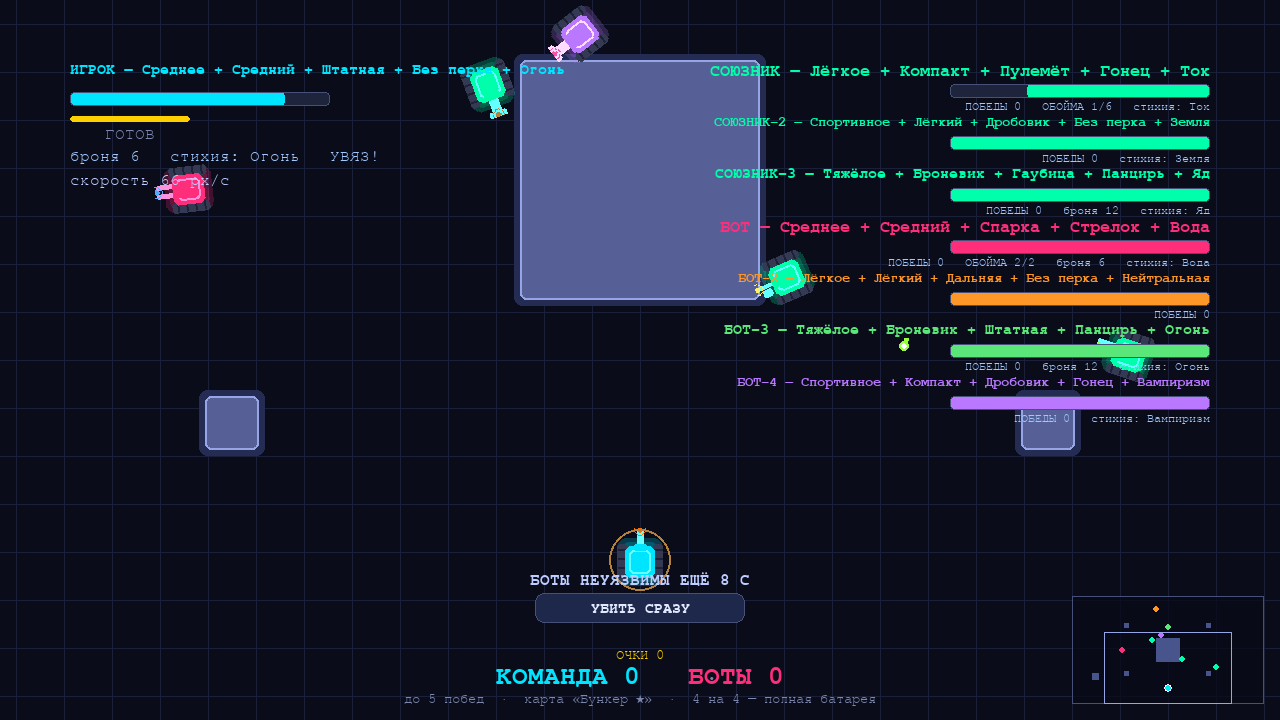
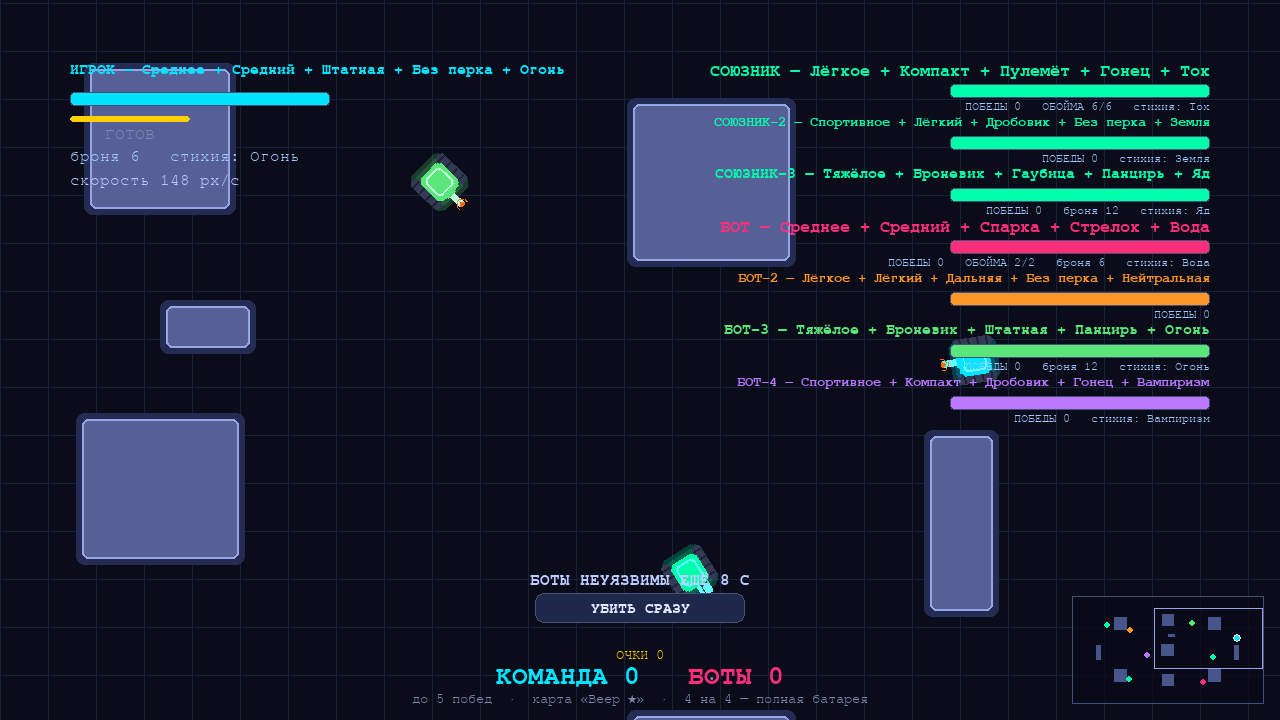
v2.4: КАРТА КАК СТАРАЯ, НО В 3 РАЗА БОЛЬШЕ — мир 2240x1260 (масштаб 1.75 от исходной 1280x720, площадь x3, пропорции 16:9; не километр: поперёк поля — те же полминуты); все 16 раскладок, стены (105 px), спавны и миникарта тянутся от масштаба сами; шеренги команд = треть высоты мира (420) — не цепляю

diff --git a/scripts/smoke_test.py b/scripts/smoke_test.py
@@ -179,7 +179,8 @@ def test_elements():
           abs(el.turn_speed - bturn * SHOCK_MULT) < 0.01)
 
     # воздух: отшвыривает на ~90 px и не сквозь стены
-    a = Tank(200, 620, 0, "medium", "medium", COL, "standard", "none")
+    # (y=450 — чистая полоса «Классики» при масштабе 1.75: блоки выше/ниже)
+    a = Tank(200, 450, 0, "medium", "medium", COL, "standard", "none")
     a.apply_element("air", 100, 0, arena, fx, snd)   # толкает вправо
     pushed = a.x - 200
     check("воздух отшвыривает (~90 px)", 60 < pushed <= 92, "(%.0f px)" % pushed)
@@ -221,7 +222,7 @@ def test_barrier():
     g._reset_round()
     g.arena = Arena(0)             # фиксированная «Классика» — тест геометрии
     p = g.player
-    p.x, p.y, p.angle = 400, 540, 0        # смотрит вправо (мир теперь 1920x1080)
+    p.x, p.y, p.angle = 400, 540, 0        # смотрит вправо (мир 2240x1260 с v2.4)
     p.barrier_charges = 1
     ok = g._place_barrier(p)
     check("стена ставится по Q", ok and len(g.barriers) == 1 and
@@ -307,7 +308,7 @@ def test_laser_fan():
     g.grace_t = 0.0                 # без грейса — иначе бот неуязвим для луча
     g.bot_tank.immune = False
     p, bot = g.player, g.bot_tank
-    # чистая полоса карты «Классика» (мир 1920x1080: блоки выше/ниже)
+    # чистая полоса карты «Классика» (мир 2240x1260: блоки выше/ниже)
     g.arena = Arena(0)
     p.x, p.y, p.angle = 350, 380, 0
     bot.x, bot.y = 750, 380
@@ -1207,11 +1208,13 @@ def test_map_shuffle():
           any("★" in n for n in names),
           "(вариантов имени %d)" % len(names))
     # классические точки появления не перекрыты баррикадами
-    # (мир 1920x1080: спавны 1вс1 теперь в (360,540) и (1560,540))
+    # (мир 2240x1260, масштаб 1.75: классические спавны в (420,630) и (1820,630))
+    from arena import _S as _sc
+    _sp = [(int(x * _sc), int(y * _sc)) for x, y in ((240, 360), (1040, 360))]
     blocked = 0
     for _ in range(40):
         c = Arena(0, shuffle=True)
-        if c.circle_collides(360, 540, 30) or c.circle_collides(1560, 540, 30):
+        if any(c.circle_collides(sx, sy, 30) for sx, sy in _sp):
             blocked += 1
     check("классические спавны не перекрыты (40 карт)", blocked == 0)
 
@@ -1457,14 +1460,14 @@ def test_team_modes():
           g5.state == "match_end" and g5.stats["losses"] >= 1)
 
 
-# ---------- 3t. БОЛЬШИЕ КАРТЫ v2.2: мир 1920x1080, камера, миникарта ----------
+# ---------- 3t. БОЛЬШАЯ КАРТА v2.4: мир 2240x1260 (x3 старой), камера, миникарта ----------
 def test_bigmap():
     import math
     from game import Game
     from settings import ARENA_W, ARENA_H, SCREEN_W, SCREEN_H
 
-    check("мир больше окна: 1920x1080 против 1280x720",
-          ARENA_W == 1920 and ARENA_H == 1080
+    check("мир x3 старой площади: 2240x1260 при окне 1280x720",
+          ARENA_W == 2240 and ARENA_H == 1260
           and ARENA_W > SCREEN_W and ARENA_H > SCREEN_H)
     a = __import__("arena").Arena(0)
     check("внешние стены большого мира блокируют",

diff --git a/game.py b/game.py
@@ -309,11 +309,15 @@ class Game:
             else:
                 our = n // 2            # 2на2 → 2, 3на3 → 3, 4на4 → 4
                 foes_n = our
-            our_pts = [(cx, cy + 380)]
+            # v2.4: отступ шеренг = треть высоты мира (420 при 1260) —
+            # сам тянется вслед за размером карты; снаружи стен (105)
+            # и блоков «Классики» остаётся запас даже под БОССА (r 48+14)
+            row = ARENA_H / 3.0
+            our_pts = [(cx, cy + row)]
             for j in range(our - 1):    # союзники веером вокруг игрока
                 off = (j // 2 + 1) * 300 * (1 if j % 2 == 0 else -1)
-                our_pts.append((cx + off, cy + 380))
-            foe_pts = [(cx + (j - (foes_n - 1) / 2.0) * 300, cy - 380)
+                our_pts.append((cx + off, cy + row))
+            foe_pts = [(cx + (j - (foes_n - 1) / 2.0) * 300, cy - row)
                        for j in range(foes_n)]
             ring = our_pts + foe_pts
         else:
@@ -739,7 +743,7 @@ class Game:
     # ================= камера большого мира (v2.2) =================
     def _update_cam(self, dt):
         """Камера едет за игроком (если он погиб — за живым танком):
-        мир 1920x1080 больше окна 1280x720."""
+        мир 2240x1260 (v2.4, x3 площади старой карты) больше окна 1280x720."""
         t = self.player if self.player.alive else \
             next((tk for tk in self.tanks if tk.alive), None)
         if t is None:
@@ -1331,7 +1335,7 @@ class Game:
             "или Enter / T — мышью можно нажать любую кнопку", True, COL_DIM)
         self.screen.blit(img, img.get_rect(center=(SCREEN_W / 2, y + 96)))
         # версия
-        img = get_font(16, bold=False).render("v2.3", True, (60, 66, 95))
+        img = get_font(16, bold=False).render("v2.4", True, (60, 66, 95))
         self.screen.blit(img, (SCREEN_W - 60, SCREEN_H - 34))
 
     # ================= тултипы ангарa =================
@@ -2041,7 +2045,7 @@ class Game:
 
     # ----- миникарта большого мира (v2.2) -----
     def _draw_minimap(self):
-        """Миникарта в правом нижнем углу: мир 1920x1080 больше окна,
+        """Миникарта в правом нижнем углу: мир 2240x1260 больше окна,
         без ориентира легко заблудиться. Показывает препятствия, танки
         и рамку видимой области."""
         mw, mh = 192, 108

diff --git a/arena.py b/arena.py
@@ -2,8 +2,10 @@
 """Арена: 16 вариантов расстановки препятствий, стены, коллизии, лучи.
 v2.1: РАНДОМИЗАЦИЯ — перед боем карта может зеркально отразиться и получить
 несколько случайных баррикад, а сама арена переразыгрывается КАЖДЫЙ РАУНД.
-v2.2: КАРТЫ ПОБОЛЬШЕ — мир 1920x1080 вместо окна 1280x720: раскладки
-масштабируются в 1.5 раза, камера следует за игроком (в game.py)."""
+v2.2: КАРТЫ ПОБОЛЬШЕ — мир больше окна 1280x720: камера следует за игроком
+(в game.py).
+v2.4: мир 2240x1260 — как старая карта, но в 3 раза БОЛЬШЕ ПО ПЛОЩАДИ
+(масштаб 1.75 от исходных координат, 16:9 сохранено)."""
 import math
 import random
 import pygame
@@ -12,13 +14,14 @@ from settings import (SCREEN_W, SCREEN_H, COL_WALL, COL_GRID, COL_BG,
 
 WALL_T = 60  # толщина внешних стен в исходной раскладке (масштабируется ниже)
 
-# Масштаб мира: 1920/1280 = 1.5 — все раскладки растягиваются до большого мира
+# Масштаб мира: 2240/1280 = 1.75 — раскладки растягиваются из исходных
+# координат 1280x720, площадь вырастает втрое (v2.4)
 _S = ARENA_W / float(SCREEN_W)
-WALL_TS = int(WALL_T * _S)          # стены тоже толще (90 px)
+WALL_TS = int(WALL_T * _S)          # стены тоже толще (105 px)
 
 
 def _scaled_layout(rects):
-    """Раскладка из исходных координат 1280x720 — в мир 1920x1080."""
+    """Раскладка из исходных координат 1280x720 — в большой мир 2240x1260."""
     return [(int(x * _S), int(y * _S), max(1, int(w * _S)), max(1, int(h * _S)))
             for (x, y, w, h) in rects]
 

diff --git a/scripts/stress_ffa.py b/scripts/stress_ffa.py
@@ -12,7 +12,7 @@ import pygame  # noqa: E402
 from game import Game  # noqa: E402
 import game as game_mod  # noqa: E402
 
-# Мир стал большим (v2.2, 1920x1080) и раунды идут дольше — полный матч до
+# Мир стал большим (v2.4, 2240x1260 — x3 площади старой карты) и раунды идут дольше — полный матч до
 # 5 побед в симуляции занимает 10+ минут. Для стресса (проверить, что ничто
 # не падает: раунды, спавны, зона, реванш) сокращаем матч до 2 побед.
 game_mod.ROUNDS_TO_WIN = 2
@@ -61,7 +61,7 @@ def play_match(mode, max_sec=240):
 
 if __name__ == "__main__":
     pygame.init()
-    # мир стал больше (1920x1080) — раунды длиннее, даём с запасом
+    # мир стал больше (2240x1260) — раунды длиннее, даём с запасом
     for m in (3, 4, 5):
         play_match(m, max_sec=420)
     # командные режимы v2.2/v2.3: 2 на 2, 3 на 3, 4 на 4 и 2 против БОССА

diff --git a/settings.py b/settings.py
@@ -10,9 +10,13 @@ SCREEN_W, SCREEN_H = 1280, 720
 FPS = 60
 TITLE = "DUEL — танковая дуэль"
 
-# ----- МИР АРЕНЫ (v2.2): КАРТЫ ПОБОЛЬШЕ -----
+# ----- МИР АРЕНЫ (v2.4): КАК СТАРАЯ КАРТА, НО В 3 РАЗА БОЛЬШЕ -----
+# Исходная карта была ровно 1280x720 (одно окно). Масштаб 1.75 по каждой
+# стороне даёт 2240x1260 — ПО ПЛОЩАДИ ровно втрое больше старой
+# (1.75 x 1.75 = 3.06), пропорции 16:9 сохранены. Не километр: пустить
+# танк поперёк карты — те же полминуты, что и раньше по большой диагонали.
 # Мир больше окна — камера следует за игроком, по краям миникарта.
-ARENA_W, ARENA_H = 1920, 1080   # в 1.5 раза крупнее окна по каждой стороне
+ARENA_W, ARENA_H = 2240, 1260   # 1280x720 * 1.75 = x3 по площади
 
 # ----- Неоновая палитра -----
 COL_BG   = (10, 12, 26)     # фон арены
